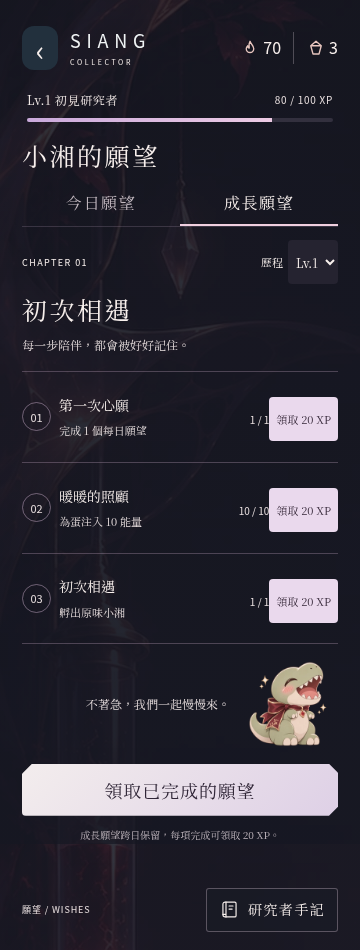
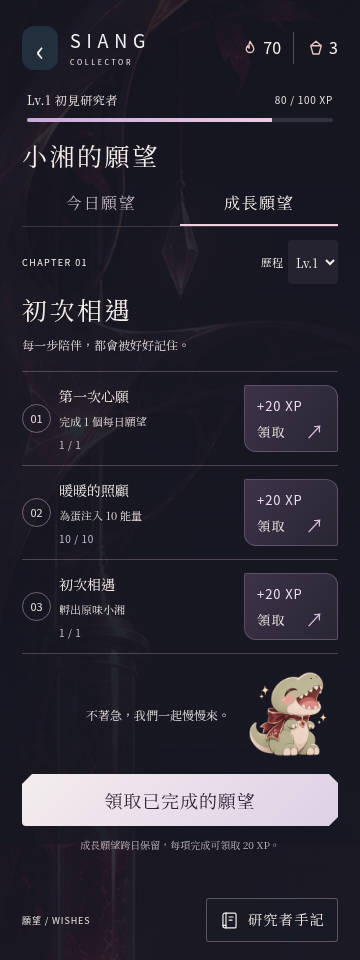
Refine growth reward buttons and separate task progress

diff --git a/css/wishes-game.css b/css/wishes-game.css
@@ -51,7 +51,18 @@
 .growth-goal p { font-size:11px; line-height:1.7; margin:0; color:var(--pearl); }
 .growth-goal__state { text-align:right; font:10px var(--font-body); color:var(--pearl); }
 .growth-goal__state span { display:block; margin-top:5px; font:10px var(--font-display); }
-.growth-claim { margin-top:5px; min-height:44px; padding:7px; font:11px var(--font-display); background:#ead9ed; color:#342637; border:0; border-radius:4px; }
+/* Reward amount and action share one generous touch target. */
+.growth-claim { display:flex; flex-direction:column; justify-content:center; gap:7px; min-width:94px; min-height:64px; padding:10px 12px; color:var(--ivory); background:linear-gradient(125deg,#3c3349,#292633); border:1px solid #a994b35c; border-radius:2px 12px 2px 12px; text-align:left; cursor:pointer; transition:background .18s ease,transform .18s ease,border-color .18s ease; }
+.growth-claim .growth-claim__reward { margin:0; color:#ecd9ed; font:500 13px var(--font-body); letter-spacing:.07em; font-variant-numeric:tabular-nums; }
+.growth-claim .growth-claim__action { display:flex; align-items:center; justify-content:space-between; gap:18px; margin:0; font:13px var(--font-display); letter-spacing:.12em; }
+.growth-claim .growth-claim__arrow { margin:0; color:#d9bddf; font:18px/1 var(--font-body); }
+.growth-claim:active:not(:disabled) { transform:scale(.96); background:#4b3e56; border-color:#dbc0df; }
+.growth-claim:focus-visible { outline:2px solid #efdaef; outline-offset:4px; }
+.growth-claim:disabled { opacity:.55; cursor:wait; }
+.growth-goal .growth-goal__progress { margin-top:6px; color:#c7b8cf; font:10px var(--font-body); font-variant-numeric:tabular-nums; letter-spacing:.06em; }
+@media(hover:hover) { .growth-claim:hover:not(:disabled) { background:#44394f; border-color:#c6a8cf; } }
+@media(prefers-reduced-motion:reduce) { .growth-claim { transition:none; } }
+
 .growth-companion { display:flex; align-items:center; justify-content:flex-end; gap:8px; padding:10px 0; }
 .growth-companion img { width:100px; height:100px; object-fit:contain; }
 .growth-companion p { font:12px var(--font-display); color:var(--pearl); }

diff --git a/js/app.js b/js/app.js
@@ -241,10 +241,14 @@ function renderGrowth() {
     const hint = document.createElement('p'); hint.textContent = goal.hint;
     content.append(title, hint);
     const status = document.createElement('div'); status.className = 'growth-goal__state';
-    status.append(document.createTextNode(`${progress.current} / ${goal.target}`));
+    const count = document.createElement('p'); count.className = 'growth-goal__progress'; count.textContent = `${progress.current} / ${goal.target}`; content.append(count);
     if (progress.claimed) { const label = document.createElement('span'); label.textContent = '✓ 已領取'; status.append(label); }
     else if (progress.complete) {
-      const claim = document.createElement('button'); claim.type = 'button'; claim.className = 'growth-claim'; claim.dataset.goal = goal.id; claim.textContent = `領取 ${GROWTH_XP} XP`; claim.disabled = claimBusy; status.append(claim);
+      const claim = document.createElement('button'); claim.type = 'button'; claim.className = 'growth-claim'; claim.dataset.goal = goal.id; claim.setAttribute('aria-label', `領取 ${goal.title}的 ${GROWTH_XP} XP 獎勵`);
+      const reward = document.createElement('span'); reward.className = 'growth-claim__reward'; reward.textContent = `+${GROWTH_XP} XP`;
+      const action = document.createElement('span'); action.className = 'growth-claim__action'; action.textContent = '領取';
+      const arrow = document.createElement('span'); arrow.className = 'growth-claim__arrow'; arrow.textContent = '↗'; arrow.setAttribute('aria-hidden', 'true');
+      action.append(arrow); claim.append(reward, action); claim.disabled = claimBusy; status.append(claim);
     } else { const label = document.createElement('span'); label.textContent = '進行中'; status.append(label); }
     row.append(no, content, status); return row;
   }));
